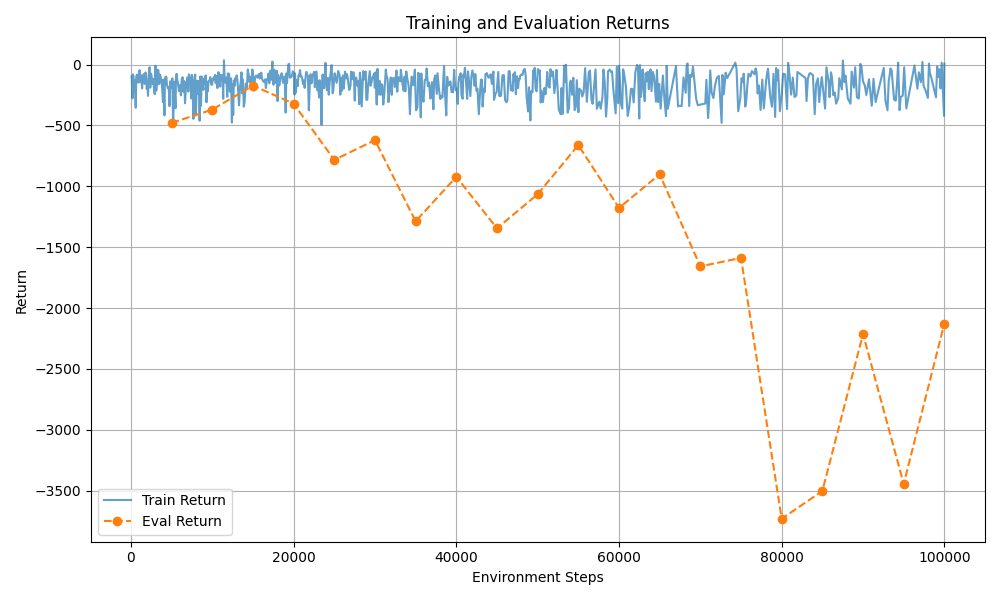
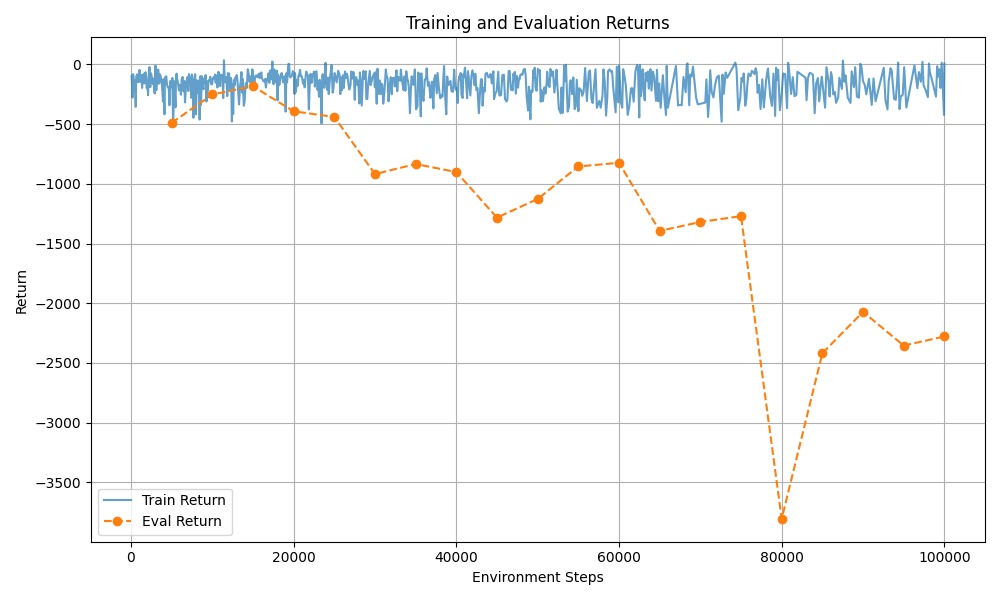
Ex1 with plot

diff --git a/rl_exercises/week_6/actor_critic.py b/rl_exercises/week_6/actor_critic.py
@@ -172,8 +172,7 @@ class ActorCriticAgent(AbstractAgent):
 
         state_tensors = torch.stack([torch.from_numpy(s).float() for s in states])
 
-        with torch.no_grad():
-            values = self.value_fn(state_tensors)
+        values = self.value_fn(state_tensors)
         # TODO: compute raw advantages = returns - values
         advantages = returns - values
 
@@ -220,9 +219,8 @@ class ActorCriticAgent(AbstractAgent):
             [torch.from_numpy(s).float() for s in next_states]
         )
 
-        with torch.no_grad():
-            values = self.value_fn(states_tensor)
-            next_values = self.value_fn(next_states_tensor)
+        values = self.value_fn(states_tensor)
+        next_values = self.value_fn(next_states_tensor)
         # TODO: compute deltas: one-step TD errors
         rewards_tensor = torch.tensor(rewards, dtype=torch.float32)
         dones_tensor = torch.tensor(dones, dtype=torch.float32)
